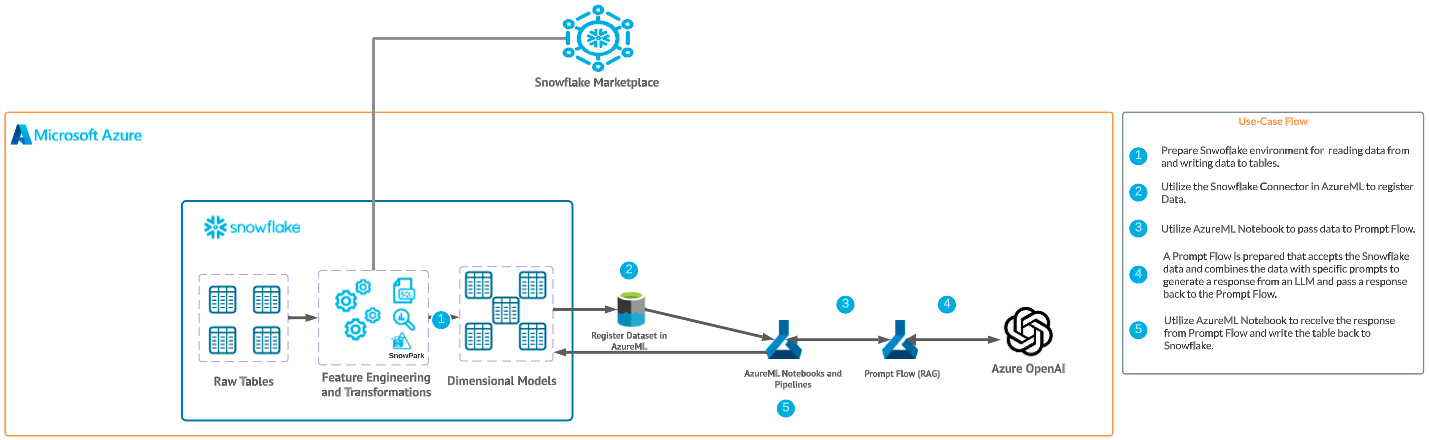
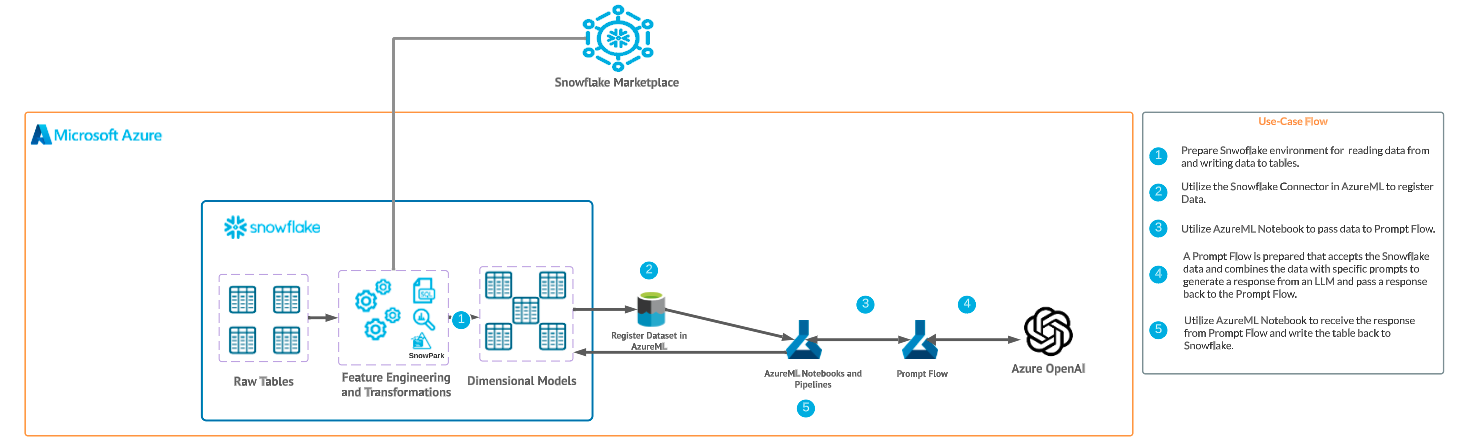
fixed some typos and small change to architecture.

diff --git a/site/sfguides/src/getting_started_with_azure_openai_and_snowflake/getting_started_with_azure_openai_and_snowflake.md b/site/sfguides/src/getting_started_with_azure_openai_and_snowflake/getting_started_with_azure_openai_and_snowflake.md
@@ -1,6 +1,6 @@
 author: marzillo-snow
 id: getting_started_with_azure_openai_and_snowflake
-summary: This is a quickstart for using Snowpark for ML on SageMaker
+summary: This is a quickstart for using Snowflake with Azure OpenAI and AzureML
 categories: getting-started,data-science-&-ml,data-engineering,app-development
 environments: web
 status: Published 
@@ -205,7 +205,8 @@ Navigate to the openai.ipynb and open it using your active compute instance.
 
 ### Slight Detour - Back to the Azure Portal
 
-In the AzureML workspace head to the Endpoint blade and verify that your Prompt Flow has deployed, note the name of the endpoint. Now go to the Azure Portal and find the AzureML Workspace we're working in and select 'Access Control (IAM)' the select Add and 'Add role assignment: ![](assets/addroleassignment.png)
+In the AzureML workspace head to the Endpoint blade and verify that your Prompt Flow has deployed, note the name of the endpoint. Now go to the Azure Portal and find the AzureML Workspace we're working in and select 'Access Control (IAM)' the select Add and 'Add role assignment': 
+![](assets/addroleassignment.png)
 
 Select the 'AzureML Data Scientist' role then select next. Select 'Managed Identity' for 'assign access to' then select members. In the right menu select your Azure subscription then 'Machine Learning online endpoint' then select your prompt flow endpoint. Click Select then 'Review and Assign' twice.
 ![](assets/miendpoint.png)
@@ -229,8 +230,7 @@ In the fifth code block fill in your Snowflake Account Identifier, username and 
 
 Head back to your Snowflake account and run the below SQL to see your recommendations with customer id to be used by your organization.
 
-```
-sql
+```sql
 SELECT * FROM retail_db.public.nbi_promo;
 ```
 ![](assets/results.png)
@@ -260,7 +260,7 @@ This quickstart is just that, a quick way to get you started with Azure OpenAI w
 - Utilize an AzureML Notebook with Snowpark to coordinate the movement of data from Snowflake to the Prompt Flow and bring results back to Snowflake
 
 ### Additional Considerations
-- There are some great blogs on Medium regarding Snowpark, SageMaker and using Snowflake with AWS.
+- There are some great blogs on Medium regarding Snowpark, AzureML and using Snowflake with Azure.
 
 - [Snowpark with AzureML](https://www.youtube.com/watch?v=p8QUMiND7Ig)
 
